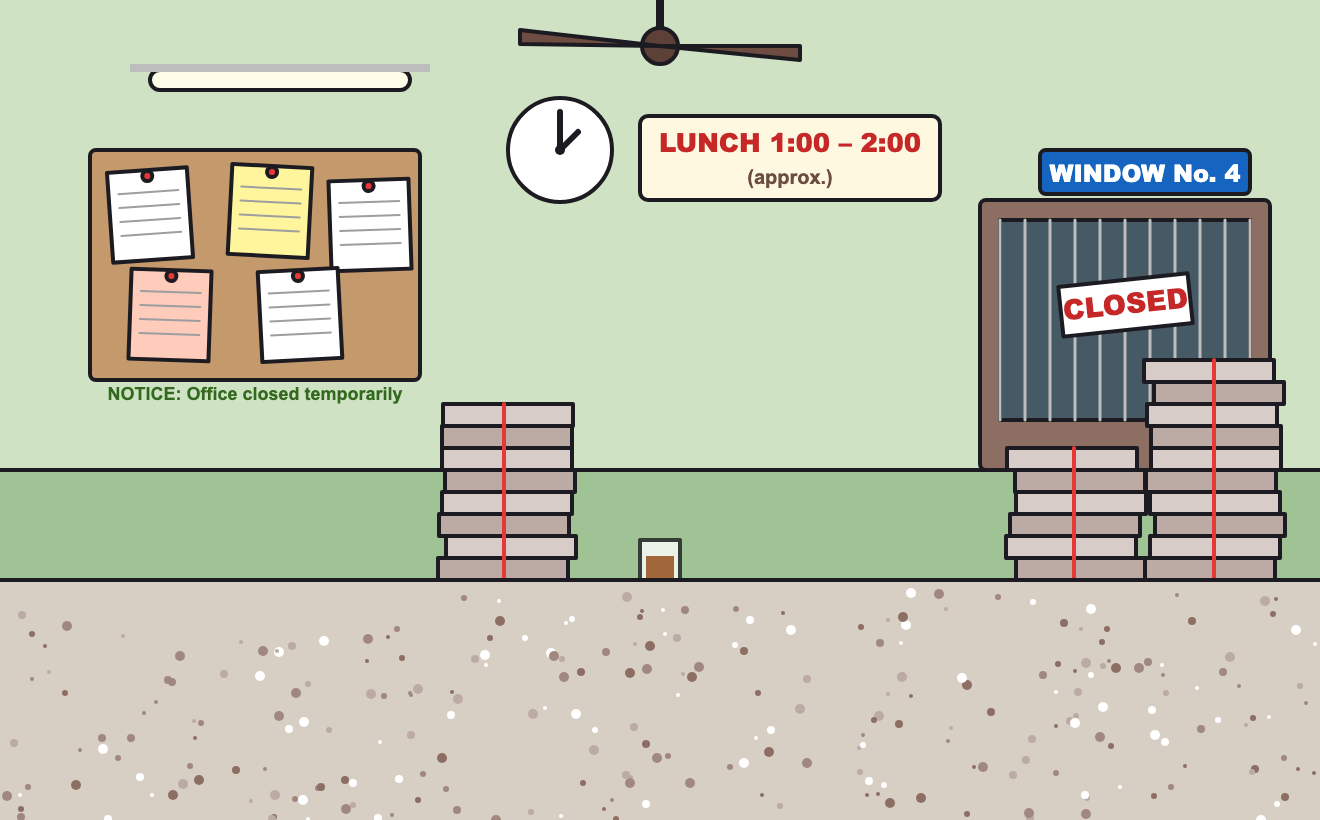
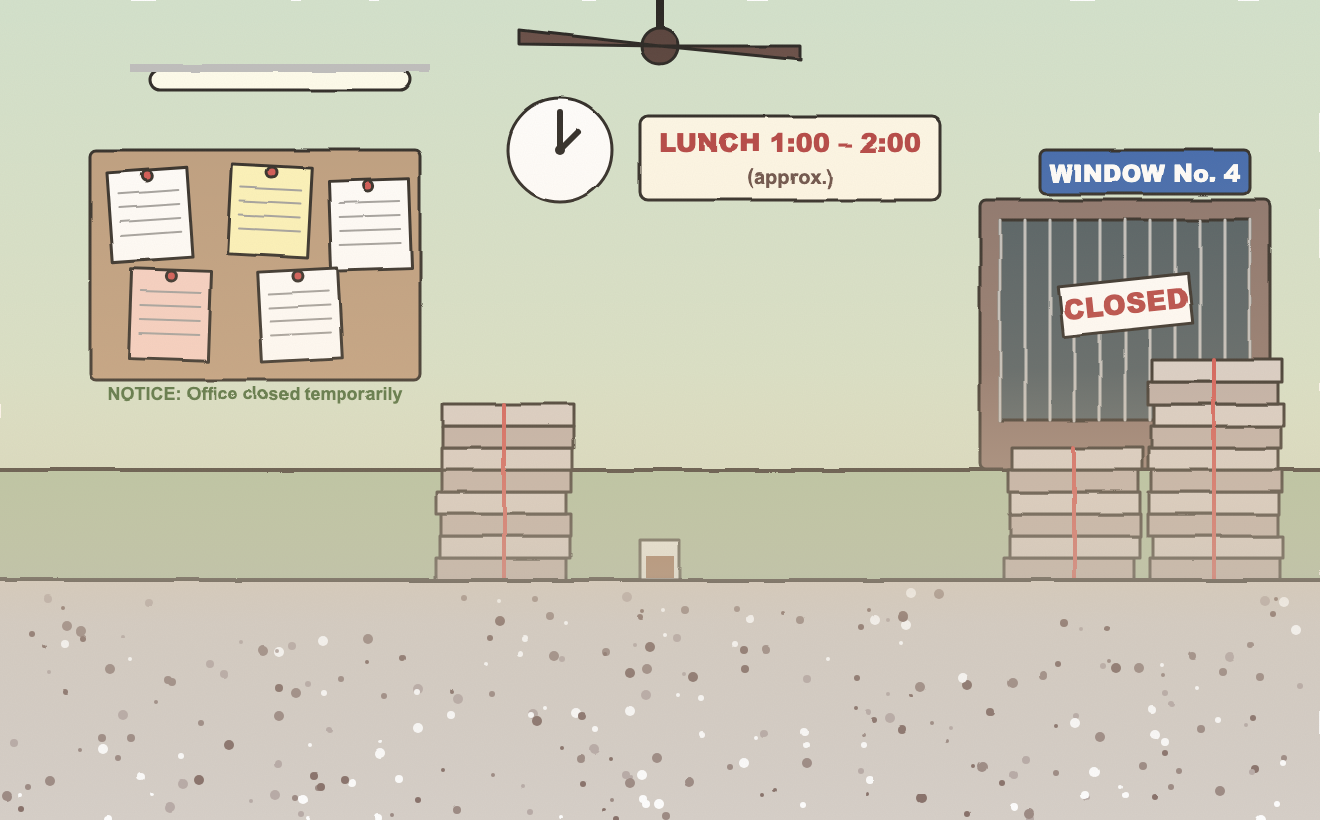
Backgrounds: Gurugram, Noida, Daftar and Metro restyled to match Jaideep's Dilli
A style pass in Art/src/bgs.py: warm smoggy skies sampled from Jaideep's Dilli
(#FFCF8D), softer thinner ink, a slight hand-drawn wobble (SVG turbulence
displacement), muted colour, a warm haze band at the horizon, and paper
grain. Jaideep's own Dilli PNG is untouched.

diff --git a/Art/src/bgs.py b/Art/src/bgs.py
@@ -1,11 +1,11 @@
 """Backgrounds for KADAK Chai. 1320x820 (wider than the 1080 battle area so it can slide). Ground line ~y 580."""
 import os, sys, random
 
-OUT = '#1d1b22'
+OUT = '#2a2622'
 W, H = 1320, 820
 random.seed(11)
 
-def attrs(line, k, sw=4):
+def attrs(line, k, sw=3):
     d = {'stroke': OUT, 'stroke-width': sw, 'stroke-linejoin': 'round', 'stroke-linecap': 'round'} if line else {}
     for x, v in k.items(): d[x.replace('_', '-')] = v
     return ' '.join(f'{x}="{v}"' for x, v in d.items())
@@ -18,7 +18,29 @@ def text(x, y, s, size, fill, anchor='middle', weight='900', rot=0, family='Aria
 def sky(top, bottom):
     return (f'<defs><linearGradient id="sky" x1="0" y1="0" x2="0" y2="1"><stop offset="0" stop-color="{top}"/><stop offset="1" stop-color="{bottom}"/></linearGradient></defs>'
             f'<rect width="{W}" height="{H}" fill="url(#sky)"/>')
-def svg(inner): return f'<svg xmlns="http://www.w3.org/2000/svg" width="{W}" height="{H}" viewBox="0 0 {W} {H}">{inner}</svg>'
+HAND = True   # match Jaideep's hand-drawn, smoggy Dilli: wobbly ink, muted colour, warm haze, paper grain
+
+def svg(inner, haze=0.55):
+    if not HAND:
+        return f'<svg xmlns="http://www.w3.org/2000/svg" width="{W}" height="{H}" viewBox="0 0 {W} {H}">{inner}</svg>'
+    defs = ('<defs>'
+            '<filter id="hand" x="0" y="0" width="100%" height="100%">'
+            '<feTurbulence type="fractalNoise" baseFrequency="0.018" numOctaves="2" seed="4" result="n"/>'
+            '<feDisplacementMap in="SourceGraphic" in2="n" scale="3.2" xChannelSelector="R" yChannelSelector="G" result="d"/>'
+            '<feColorMatrix in="d" type="saturate" values="0.72"/></filter>'
+            '<filter id="grain"><feTurbulence type="fractalNoise" baseFrequency="0.9" numOctaves="1" seed="9"/>'
+            '<feColorMatrix type="matrix" values="0 0 0 0 0.35  0 0 0 0 0.3  0 0 0 0 0.25  0 0 0 0.06 0"/></filter>'
+            '<linearGradient id="haze" x1="0" y1="0" x2="0" y2="1">'
+            '<stop offset="0" stop-color="#ffd9a8" stop-opacity="0"/>'
+            '<stop offset="0.45" stop-color="#ffd9a8" stop-opacity="0.18"/>'
+            f'<stop offset="0.7" stop-color="#d8c8b0" stop-opacity="{haze}"/>'
+            '<stop offset="0.76" stop-color="#cfc2ad" stop-opacity="0.25"/>'
+            '<stop offset="1" stop-color="#bdb3a5" stop-opacity="0"/></linearGradient>'
+            '</defs>')
+    return (f'<svg xmlns="http://www.w3.org/2000/svg" width="{W}" height="{H}" viewBox="0 0 {W} {H}">{defs}'
+            f'<g filter="url(#hand)">{inner}</g>'
+            f'<rect width="{W}" height="{H}" fill="url(#haze)"/>'
+            f'<rect width="{W}" height="{H}" filter="url(#grain)"/></svg>')
 
 def skyline(color, base, hmin, hmax, opacity):
     s, x = '', -20
@@ -79,7 +101,7 @@ def dilli():
 
 # ------------------------------------------------------------------ NOIDA
 def noida():
-    s = sky('#b7c6d4', '#e2e6ea')
+    s = sky('#ffcf8d', '#efd9bc')
     s += skyline('#a7b4c0', 500, 100, 220, '0.6')
     # glass IT towers
     for x0, w, h in [(40, 200, 420), (270, 160, 340), (1040, 240, 460)]:
@@ -135,7 +157,7 @@ def noida():
 
 # ------------------------------------------------------------------ GURUGRAM
 def gurugram():
-    s = sky('#a9c4dc', '#e4ecf2')
+    s = sky('#ffcf8d', '#f1dcc0')
     s += skyline('#9fb3c6', 470, 160, 300, '0.55')
     # glass towers of Cyber City, with diagonal reflections
     for x0, w, h, col in [(-20, 230, 500, '#4f86b3'), (220, 180, 420, '#6fa3c9'), (880, 210, 470, '#5b8fbb'), (1100, 240, 540, '#3f77a6')]:
